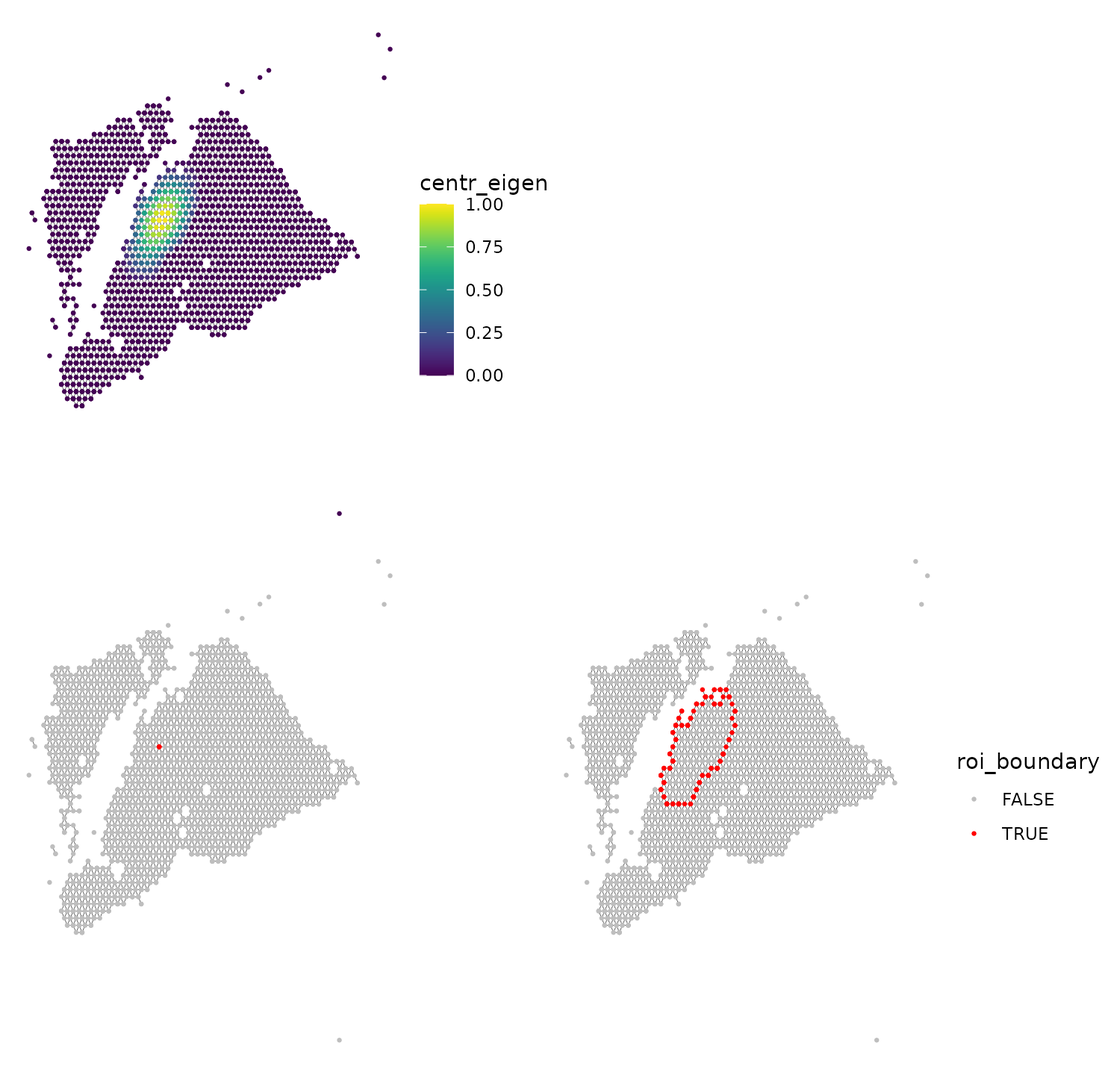
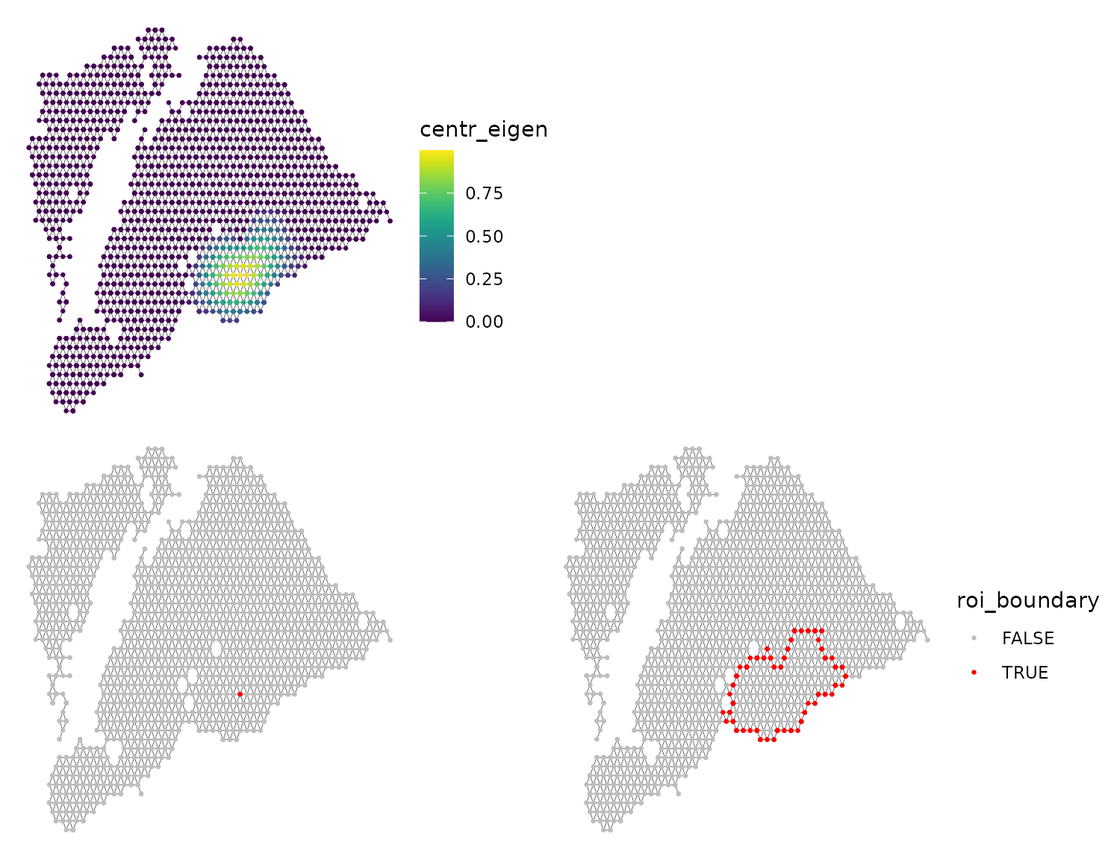
Deploying to gh-pages from @ Sanin-Lab/SpotGraphs@2003e0c19b475e61842f637ec03122c2bc30e984 🚀

diff --git a/articles/NeighborhoodCenters.html b/articles/NeighborhoodCenters.html
@@ -102,15 +102,19 @@ to demonstrate <code><a href="../reference/NeighborhoodCenters.html">Neighborhoo
 <span><span class="co">#&gt; [1] 36601  1185</span></span>
 <span></span>
 <span><span class="va">coord</span> <span class="op">=</span> <span class="fu">Seurat</span><span class="fu">::</span><span class="fu"><a href="https://satijalab.github.io/seurat-object/reference/GetTissueCoordinates.html" class="external-link">GetTissueCoordinates</a></span><span class="op">(</span><span class="va">scc_s1</span><span class="op">)</span></span>
+<span><span class="va">coord</span> <span class="op">=</span> <span class="fu"><a href="https://rdrr.io/r/base/data.frame.html" class="external-link">data.frame</a></span><span class="op">(</span>x <span class="op">=</span> <span class="va">coord</span><span class="op">$</span><span class="va">x</span>, y <span class="op">=</span> <span class="op">-</span><span class="va">coord</span><span class="op">$</span><span class="va">y</span><span class="op">)</span></span></code></pre></div>
+<p>Perform some spot-level filtering (in the same fashion as in the
+Getting Starting vignette)</p>
+<div class="sourceCode" id="cb3"><pre class="downlit sourceCode r">
+<code class="sourceCode R"><span><span class="va">ig</span> <span class="op">=</span> <span class="fu"><a href="../reference/SpotGraph.html">SpotGraph</a></span><span class="op">(</span><span class="va">coord</span><span class="op">)</span></span>
+<span><span class="va">cl</span> <span class="op">=</span> <span class="fu">igraph</span><span class="fu">::</span><span class="fu"><a href="https://r.igraph.org/reference/cluster_louvain.html" class="external-link">cluster_louvain</a></span><span class="op">(</span><span class="va">ig</span>, resolution <span class="op">=</span> <span class="fl">0</span><span class="op">)</span></span>
+<span><span class="va">scc_s1</span> <span class="op">=</span> <span class="fu"><a href="https://satijalab.github.io/seurat-object/reference/AddMetaData.html" class="external-link">AddMetaData</a></span><span class="op">(</span><span class="va">scc_s1</span>, <span class="va">cl</span><span class="op">$</span><span class="va">membership</span> <span class="op"><a href="https://rdrr.io/r/base/match.html" class="external-link">%in%</a></span> <span class="fu"><a href="https://rdrr.io/r/base/c.html" class="external-link">c</a></span><span class="op">(</span><span class="st">'1'</span>,<span class="st">'2'</span><span class="op">)</span>, <span class="st">'cl_threshold'</span><span class="op">)</span></span>
+<span><span class="va">scc_s1</span> <span class="op">=</span> <span class="fu"><a href="https://rdrr.io/r/base/subset.html" class="external-link">subset</a></span><span class="op">(</span><span class="va">scc_s1</span>, subset <span class="op">=</span> <span class="va">cl_threshold</span><span class="op">)</span></span></code></pre></div>
+<p>Update the igraph object after filtering the Seurat object</p>
+<div class="sourceCode" id="cb4"><pre class="downlit sourceCode r">
+<code class="sourceCode R"><span><span class="va">coord</span> <span class="op">=</span> <span class="fu"><a href="https://satijalab.github.io/seurat-object/reference/GetTissueCoordinates.html" class="external-link">GetTissueCoordinates</a></span><span class="op">(</span><span class="va">scc_s1</span><span class="op">)</span></span>
 <span><span class="va">coord</span> <span class="op">=</span> <span class="fu"><a href="https://rdrr.io/r/base/data.frame.html" class="external-link">data.frame</a></span><span class="op">(</span>x <span class="op">=</span> <span class="va">coord</span><span class="op">$</span><span class="va">x</span>, y <span class="op">=</span> <span class="op">-</span><span class="va">coord</span><span class="op">$</span><span class="va">y</span><span class="op">)</span></span>
-<span><span class="fu"><a href="https://rdrr.io/r/utils/head.html" class="external-link">head</a></span><span class="op">(</span><span class="va">coord</span><span class="op">)</span></span>
-<span><span class="co">#&gt;       x      y</span></span>
-<span><span class="co">#&gt; 1  4809 -16571</span></span>
-<span><span class="co">#&gt; 2  3944 -13546</span></span>
-<span><span class="co">#&gt; 3  8142 -14812</span></span>
-<span><span class="co">#&gt; 4 13505 -10536</span></span>
-<span><span class="co">#&gt; 5 11764 -13053</span></span>
-<span><span class="co">#&gt; 6  4240  -9011</span></span></code></pre></div>
+<span><span class="va">ig</span> <span class="op">=</span> <span class="fu"><a href="../reference/SpotGraph.html">SpotGraph</a></span><span class="op">(</span><span class="va">coord</span><span class="op">)</span></span></code></pre></div>
 </div>
 <div class="section level2">
 <h2 id="select-a-region-of-interest">2. Select a region of interest<a class="anchor" aria-label="anchor" href="#select-a-region-of-interest"></a>
@@ -119,38 +123,44 @@ to demonstrate <code><a href="../reference/NeighborhoodCenters.html">Neighborhoo
 interest in this tissue sample, but in practice, this should instead be
 a region of some biological interest. The region of interest, i.e.,
 neighborhood, is provided to <code><a href="../reference/NeighborhoodCenters.html">NeighborhoodCenters()</a></code> as a
-named vector of <code>TRUE</code>/<code>FALSE</code> values, where the
-names correspond to spot barcodes in the given dataset.</p>
-<div class="sourceCode" id="cb3"><pre class="downlit sourceCode r">
-<code class="sourceCode R"><span><span class="co"># create an igraph object with SpotGraph() and perform clustering</span></span>
-<span><span class="va">ig</span> <span class="op">=</span> <span class="fu"><a href="../reference/SpotGraph.html">SpotGraph</a></span><span class="op">(</span><span class="va">coord</span><span class="op">)</span></span>
-<span><span class="va">cl</span> <span class="op">=</span> <span class="fu">igraph</span><span class="fu">::</span><span class="fu"><a href="https://r.igraph.org/reference/cluster_fast_greedy.html" class="external-link">cluster_fast_greedy</a></span><span class="op">(</span><span class="va">ig</span><span class="op">)</span></span>
-<span><span class="va">cl</span> <span class="op">=</span> <span class="fu"><a href="https://rdrr.io/r/base/factor.html" class="external-link">factor</a></span><span class="op">(</span><span class="va">cl</span><span class="op">$</span><span class="va">membership</span><span class="op">)</span></span>
+named vector of <code>TRUE</code>/<code>FALSE</code> values.</p>
+<div class="sourceCode" id="cb5"><pre class="downlit sourceCode r">
+<code class="sourceCode R"><span><span class="co"># perform clustering on the igraph object</span></span>
+<span><span class="va">cl</span> <span class="op">=</span> <span class="fu">igraph</span><span class="fu">::</span><span class="fu"><a href="https://r.igraph.org/reference/cluster_louvain.html" class="external-link">cluster_louvain</a></span><span class="op">(</span><span class="va">ig</span>, resolution <span class="op">=</span> <span class="fl">0.4</span><span class="op">)</span></span>
 <span></span>
-<span><span class="co"># select cluster 1 and name the boolean vector with vertex names</span></span>
-<span><span class="va">roi</span> <span class="op">=</span> <span class="va">cl</span><span class="op">==</span><span class="fl">5</span></span>
-<span><span class="fu"><a href="https://rdrr.io/r/base/names.html" class="external-link">names</a></span><span class="op">(</span><span class="va">roi</span><span class="op">)</span> <span class="op">=</span> <span class="fu"><a href="https://rdrr.io/r/base/names.html" class="external-link">names</a></span><span class="op">(</span><span class="fu">igraph</span><span class="fu">::</span><span class="fu"><a href="https://r.igraph.org/reference/V.html" class="external-link">V</a></span><span class="op">(</span><span class="va">ig</span><span class="op">)</span><span class="op">)</span></span></code></pre></div>
+<span><span class="co"># store clustering results back into igraph object</span></span>
+<span><span class="co"># - note: V() will access all vertices of an igraph object. </span></span>
+<span><span class="co">#        `V() &lt;-` also allows us to store vertex-level attributes </span></span>
+<span><span class="fu">igraph</span><span class="fu">::</span><span class="fu"><a href="https://r.igraph.org/reference/V.html" class="external-link">V</a></span><span class="op">(</span><span class="va">ig</span><span class="op">)</span><span class="op">$</span><span class="va">cluster</span> <span class="op">=</span> <span class="fu"><a href="https://rdrr.io/r/base/factor.html" class="external-link">factor</a></span><span class="op">(</span><span class="va">cl</span><span class="op">$</span><span class="va">membership</span><span class="op">)</span></span>
+<span></span>
+<span><span class="co"># select cluster 5 and name the boolean vector with vertex names</span></span>
+<span><span class="va">roi</span> <span class="op">=</span> <span class="va">cl</span><span class="op">$</span><span class="va">membership</span><span class="op">==</span><span class="fl">5</span></span>
+<span><span class="fu">igraph</span><span class="fu">::</span><span class="fu"><a href="https://r.igraph.org/reference/V.html" class="external-link">V</a></span><span class="op">(</span><span class="va">ig</span><span class="op">)</span><span class="op">$</span><span class="va">is_roi</span> <span class="op">=</span> <span class="va">roi</span></span>
+<span></span>
+<span><span class="co"># visualize clusters and region selection</span></span>
+<span><span class="va">plt1</span> <span class="op">=</span> <span class="fu"><a href="../reference/SpatialPlotGraph.html">SpatialPlotGraph</a></span><span class="op">(</span><span class="va">ig</span>, group.by <span class="op">=</span> <span class="st">'cluster'</span>, label <span class="op">=</span> <span class="cn">T</span>,</span>
+<span>                        pt.size <span class="op">=</span> <span class="fl">0.5</span>, linewidth <span class="op">=</span> <span class="fl">0.1</span><span class="op">)</span> <span class="op">+</span></span>
+<span>  <span class="fu"><a href="https://ggplot2.tidyverse.org/reference/ggtheme.html" class="external-link">theme_void</a></span><span class="op">(</span><span class="op">)</span> <span class="op">+</span></span>
+<span>  <span class="fu"><a href="https://ggplot2.tidyverse.org/reference/theme.html" class="external-link">theme</a></span><span class="op">(</span>legend.position <span class="op">=</span> <span class="st">'none'</span><span class="op">)</span></span>
+<span><span class="va">plt2</span> <span class="op">=</span> <span class="fu"><a href="../reference/SpatialPlotGraph.html">SpatialPlotGraph</a></span><span class="op">(</span><span class="va">ig</span>, group.by <span class="op">=</span> <span class="st">'is_roi'</span>, label <span class="op">=</span> <span class="cn">F</span>,</span>
+<span>                        pt.size <span class="op">=</span> <span class="fl">0.5</span>, linewidth <span class="op">=</span> <span class="fl">0.1</span><span class="op">)</span> <span class="op">+</span></span>
+<span>  <span class="fu"><a href="https://ggplot2.tidyverse.org/reference/scale_manual.html" class="external-link">scale_color_manual</a></span><span class="op">(</span>values <span class="op">=</span> <span class="fu"><a href="https://rdrr.io/r/base/c.html" class="external-link">c</a></span><span class="op">(</span><span class="st">'grey'</span>,<span class="st">'red'</span><span class="op">)</span><span class="op">)</span> <span class="op">+</span></span>
+<span>  <span class="fu"><a href="https://ggplot2.tidyverse.org/reference/ggtheme.html" class="external-link">theme_void</a></span><span class="op">(</span><span class="op">)</span></span>
+<span></span>
+<span><span class="fu"><a href="https://patchwork.data-imaginist.com/reference/wrap_plots.html" class="external-link">wrap_plots</a></span><span class="op">(</span><span class="va">plt1</span>, <span class="va">plt2</span><span class="op">)</span></span></code></pre></div>
+<p><img src="NeighborhoodCenters_files/figure-html/Choose%20a%20region-1.png" class="r-plt" alt="" width="768"></p>
 </div>
 <div class="section level2">
 <h2 id="run-neighborhoodcenters">3. Run <code>NeighborhoodCenters()</code><a class="anchor" aria-label="anchor" href="#run-neighborhoodcenters"></a>
 </h2>
-<div class="sourceCode" id="cb4"><pre class="downlit sourceCode r">
+<div class="sourceCode" id="cb6"><pre class="downlit sourceCode r">
 <code class="sourceCode R"><span><span class="va">res</span> <span class="op">=</span> <span class="fu"><a href="../reference/NeighborhoodCenters.html">NeighborhoodCenters</a></span><span class="op">(</span>coord <span class="op">=</span> <span class="va">coord</span>, is_neighborhood <span class="op">=</span> <span class="va">roi</span><span class="op">)</span></span></code></pre></div>
 <p>The output from this function returns a list, where the first element
 is a data.frame with the scores from <code><a href="https://r.igraph.org/reference/centr_eigen.html" class="external-link">igraph::centr_eigen()</a></code>
 where <code>is_neighborhood == T</code>, and 0 where
 <code>is_neighborhood == F</code>.</p>
-<div class="sourceCode" id="cb5"><pre class="downlit sourceCode r">
-<code class="sourceCode R"><span><span class="fu"><a href="https://rdrr.io/r/base/print.html" class="external-link">print</a></span><span class="op">(</span><span class="fu"><a href="https://rdrr.io/r/utils/head.html" class="external-link">head</a></span><span class="op">(</span><span class="va">res</span><span class="op">$</span><span class="va">eigen.scores</span><span class="op">)</span><span class="op">)</span></span>
-<span><span class="co">#&gt;   barcode center_eigen</span></span>
-<span><span class="co">#&gt; 1       1            0</span></span>
-<span><span class="co">#&gt; 2       2            0</span></span>
-<span><span class="co">#&gt; 3       3            0</span></span>
-<span><span class="co">#&gt; 4       4            0</span></span>
-<span><span class="co">#&gt; 5       5            0</span></span>
-<span><span class="co">#&gt; 6       6            0</span></span>
-<span></span>
-<span><span class="co"># Set centrality scores as a vertex attribute in our igraph object</span></span>
+<div class="sourceCode" id="cb7"><pre class="downlit sourceCode r">
+<code class="sourceCode R"><span><span class="co"># Set centrality scores as a vertex attribute in our igraph object</span></span>
 <span><span class="fu">igraph</span><span class="fu">::</span><span class="fu"><a href="https://r.igraph.org/reference/V.html" class="external-link">V</a></span><span class="op">(</span><span class="va">ig</span><span class="op">)</span><span class="op">$</span><span class="va">centr_eigen</span> <span class="op">=</span> <span class="va">res</span><span class="op">$</span><span class="va">eigen.scores</span><span class="op">$</span><span class="va">center_eigen</span></span>
 <span><span class="fu">igraph</span><span class="fu">::</span><span class="fu"><a href="https://r.igraph.org/reference/V.html" class="external-link">V</a></span><span class="op">(</span><span class="va">ig</span><span class="op">)</span><span class="op">$</span><span class="va">roi_center</span> <span class="op">=</span> <span class="fu"><a href="https://rdrr.io/r/base/names.html" class="external-link">names</a></span><span class="op">(</span><span class="fu">igraph</span><span class="fu">::</span><span class="fu"><a href="https://r.igraph.org/reference/V.html" class="external-link">V</a></span><span class="op">(</span><span class="va">ig</span><span class="op">)</span><span class="op">)</span> <span class="op"><a href="https://rdrr.io/r/base/match.html" class="external-link">%in%</a></span> <span class="va">res</span><span class="op">$</span><span class="va">centers</span></span>
 <span><span class="fu">igraph</span><span class="fu">::</span><span class="fu"><a href="https://r.igraph.org/reference/V.html" class="external-link">V</a></span><span class="op">(</span><span class="va">ig</span><span class="op">)</span><span class="op">$</span><span class="va">roi_boundary</span> <span class="op">=</span> <span class="fu"><a href="https://rdrr.io/r/base/names.html" class="external-link">names</a></span><span class="op">(</span><span class="fu">igraph</span><span class="fu">::</span><span class="fu"><a href="https://r.igraph.org/reference/V.html" class="external-link">V</a></span><span class="op">(</span><span class="va">ig</span><span class="op">)</span><span class="op">)</span> <span class="op"><a href="https://rdrr.io/r/base/match.html" class="external-link">%in%</a></span> <span class="va">res</span><span class="op">$</span><span class="va">boundary</span></span>
@@ -181,11 +191,11 @@ indicating whether a spot is within any of these regions. This can be
 useful when there are several tumor regions within the same tissue
 section. Here, we select three different clusters as regions of
 interest, instead of just one.</p>
-<div class="sourceCode" id="cb6"><pre class="downlit sourceCode r">
-<code class="sourceCode R"><span><span class="va">roi</span> <span class="op">=</span> <span class="va">cl</span> <span class="op"><a href="https://rdrr.io/r/base/match.html" class="external-link">%in%</a></span> <span class="fu"><a href="https://rdrr.io/r/base/c.html" class="external-link">c</a></span><span class="op">(</span><span class="st">'1'</span>, <span class="st">'2'</span>, <span class="st">'5'</span><span class="op">)</span></span>
+<div class="sourceCode" id="cb8"><pre class="downlit sourceCode r">
+<code class="sourceCode R"><span><span class="va">roi</span> <span class="op">=</span> <span class="va">cl</span><span class="op">$</span><span class="va">membership</span> <span class="op"><a href="https://rdrr.io/r/base/match.html" class="external-link">%in%</a></span> <span class="fu"><a href="https://rdrr.io/r/base/c.html" class="external-link">c</a></span><span class="op">(</span><span class="st">'2'</span>, <span class="st">'4'</span>, <span class="st">'5'</span><span class="op">)</span></span>
 <span><span class="fu"><a href="https://rdrr.io/r/base/names.html" class="external-link">names</a></span><span class="op">(</span><span class="va">roi</span><span class="op">)</span> <span class="op">=</span> <span class="fu"><a href="https://rdrr.io/r/base/names.html" class="external-link">names</a></span><span class="op">(</span><span class="fu">igraph</span><span class="fu">::</span><span class="fu"><a href="https://r.igraph.org/reference/V.html" class="external-link">V</a></span><span class="op">(</span><span class="va">ig</span><span class="op">)</span><span class="op">)</span></span>
 <span><span class="va">res</span> <span class="op">=</span> <span class="fu"><a href="../reference/NeighborhoodCenters.html">NeighborhoodCenters</a></span><span class="op">(</span>coord <span class="op">=</span> <span class="va">coord</span>, is_neighborhood <span class="op">=</span> <span class="va">roi</span><span class="op">)</span></span></code></pre></div>
-<div class="sourceCode" id="cb7"><pre class="downlit sourceCode r">
+<div class="sourceCode" id="cb9"><pre class="downlit sourceCode r">
 <code class="sourceCode R"><span><span class="co"># Set centrality scores as a vertex attribute in our igraph object</span></span>
 <span><span class="fu">igraph</span><span class="fu">::</span><span class="fu"><a href="https://r.igraph.org/reference/V.html" class="external-link">V</a></span><span class="op">(</span><span class="va">ig</span><span class="op">)</span><span class="op">$</span><span class="va">centr_eigen</span> <span class="op">=</span> <span class="va">res</span><span class="op">$</span><span class="va">eigen.scores</span><span class="op">$</span><span class="va">center_eigen</span></span>
 <span><span class="fu">igraph</span><span class="fu">::</span><span class="fu"><a href="https://r.igraph.org/reference/V.html" class="external-link">V</a></span><span class="op">(</span><span class="va">ig</span><span class="op">)</span><span class="op">$</span><span class="va">roi_center</span> <span class="op">=</span> <span class="fu"><a href="https://rdrr.io/r/base/names.html" class="external-link">names</a></span><span class="op">(</span><span class="fu">igraph</span><span class="fu">::</span><span class="fu"><a href="https://r.igraph.org/reference/V.html" class="external-link">V</a></span><span class="op">(</span><span class="va">ig</span><span class="op">)</span><span class="op">)</span> <span class="op"><a href="https://rdrr.io/r/base/match.html" class="external-link">%in%</a></span> <span class="va">res</span><span class="op">$</span><span class="va">centers</span></span>
@@ -211,26 +221,25 @@ interest, instead of just one.</p>
 <div class="section level2">
 <h2 id="calculate-distance-between-each-spot-and-roi-center">5. Calculate distance between each spot and ROI center<a class="anchor" aria-label="anchor" href="#calculate-distance-between-each-spot-and-roi-center"></a>
 </h2>
-<div class="sourceCode" id="cb8"><pre class="downlit sourceCode r">
-<code class="sourceCode R"><span><span class="va">roi_dist</span> <span class="op">=</span> <span class="fu">igraph</span><span class="fu">::</span><span class="fu"><a href="https://r.igraph.org/reference/distances.html" class="external-link">distances</a></span><span class="op">(</span><span class="va">ig</span>, weights <span class="op">=</span> <span class="cn">NA</span><span class="op">)</span><span class="op">[</span>,<span class="va">res</span><span class="op">$</span><span class="va">centers</span><span class="op">]</span> <span class="op"><a href="../reference/pipe.html">%&gt;%</a></span> </span>
-<span>  <span class="fu"><a href="https://rdrr.io/r/base/apply.html" class="external-link">apply</a></span><span class="op">(</span><span class="fl">1</span>, <span class="va">min</span><span class="op">)</span></span>
-<span><span class="va">boundary_dist</span> <span class="op">=</span> <span class="fu">igraph</span><span class="fu">::</span><span class="fu"><a href="https://r.igraph.org/reference/distances.html" class="external-link">distances</a></span><span class="op">(</span><span class="va">ig</span>, weights <span class="op">=</span> <span class="cn">NA</span><span class="op">)</span><span class="op">[</span>,<span class="va">res</span><span class="op">$</span><span class="va">boundary</span><span class="op">]</span> <span class="op"><a href="../reference/pipe.html">%&gt;%</a></span> </span>
-<span>  <span class="fu"><a href="https://rdrr.io/r/base/apply.html" class="external-link">apply</a></span><span class="op">(</span><span class="fl">1</span>, <span class="va">min</span><span class="op">)</span></span>
-<span><span class="co"># boundary_dist = ifelse(!roi, boundary_dist, 0)</span></span>
+<div class="sourceCode" id="cb10"><pre class="downlit sourceCode r">
+<code class="sourceCode R"><span><span class="va">roi_dist</span> <span class="op">=</span> <span class="fu">igraph</span><span class="fu">::</span><span class="fu"><a href="https://r.igraph.org/reference/distances.html" class="external-link">distances</a></span><span class="op">(</span><span class="va">ig</span><span class="op">)</span><span class="op">[</span>,<span class="va">res</span><span class="op">$</span><span class="va">centers</span><span class="op">]</span> <span class="op"><a href="../reference/pipe.html">%&gt;%</a></span> <span class="fu"><a href="https://rdrr.io/r/base/apply.html" class="external-link">apply</a></span><span class="op">(</span><span class="fl">1</span>, <span class="va">min</span><span class="op">)</span></span>
+<span><span class="va">boundary_dist</span> <span class="op">=</span> <span class="fu">igraph</span><span class="fu">::</span><span class="fu"><a href="https://r.igraph.org/reference/distances.html" class="external-link">distances</a></span><span class="op">(</span><span class="va">ig</span><span class="op">)</span><span class="op">[</span>,<span class="va">res</span><span class="op">$</span><span class="va">boundary</span><span class="op">]</span> <span class="op"><a href="../reference/pipe.html">%&gt;%</a></span> <span class="fu"><a href="https://rdrr.io/r/base/apply.html" class="external-link">apply</a></span><span class="op">(</span><span class="fl">1</span>, <span class="va">min</span><span class="op">)</span></span>
 <span></span>
+<span><span class="co"># store calculated distances back into igraph objects</span></span>
 <span><span class="fu">igraph</span><span class="fu">::</span><span class="fu"><a href="https://r.igraph.org/reference/V.html" class="external-link">V</a></span><span class="op">(</span><span class="va">ig</span><span class="op">)</span><span class="op">$</span><span class="va">roi_dist</span> <span class="op">=</span> <span class="va">roi_dist</span></span>
 <span><span class="fu">igraph</span><span class="fu">::</span><span class="fu"><a href="https://r.igraph.org/reference/V.html" class="external-link">V</a></span><span class="op">(</span><span class="va">ig</span><span class="op">)</span><span class="op">$</span><span class="va">boundary_dist</span> <span class="op">=</span> <span class="va">boundary_dist</span></span>
 <span></span>
+<span><span class="co"># visualize distances between centers or boundaries</span></span>
 <span><span class="va">plt.dist</span> <span class="op">=</span> <span class="fu"><a href="../reference/SpatialPlotGraph.html">SpatialPlotGraph</a></span><span class="op">(</span><span class="va">ig</span>, group.by <span class="op">=</span> <span class="st">'roi_dist'</span>,</span>
 <span>                 pt.size <span class="op">=</span> <span class="fl">0.5</span>, linewidth <span class="op">=</span> <span class="fl">0.1</span><span class="op">)</span> <span class="op">+</span></span>
-<span>  <span class="fu"><a href="https://ggplot2.tidyverse.org/reference/scale_brewer.html" class="external-link">scale_color_distiller</a></span><span class="op">(</span>palette <span class="op">=</span> <span class="st">'RdBu'</span>, direction <span class="op">=</span> <span class="fl">1</span><span class="op">)</span> <span class="op">+</span></span>
+<span>  <span class="fu"><a href="https://ggplot2.tidyverse.org/reference/scale_brewer.html" class="external-link">scale_color_distiller</a></span><span class="op">(</span>palette <span class="op">=</span> <span class="st">'RdBu'</span>, direction <span class="op">=</span> <span class="op">-</span><span class="fl">1</span><span class="op">)</span> <span class="op">+</span></span>
 <span>  <span class="fu"><a href="https://ggplot2.tidyverse.org/reference/labs.html" class="external-link">ggtitle</a></span><span class="op">(</span><span class="st">'distance to ROI centers'</span><span class="op">)</span> <span class="op">+</span></span>
 <span>  <span class="fu"><a href="https://ggplot2.tidyverse.org/reference/ggtheme.html" class="external-link">theme_void</a></span><span class="op">(</span><span class="op">)</span> <span class="op">+</span></span>
 <span>  <span class="fu"><a href="https://ggplot2.tidyverse.org/reference/theme.html" class="external-link">theme</a></span><span class="op">(</span>plot.title <span class="op">=</span> <span class="fu"><a href="https://ggplot2.tidyverse.org/reference/element.html" class="external-link">element_text</a></span><span class="op">(</span>hjust <span class="op">=</span> <span class="fl">0.5</span>, face <span class="op">=</span> <span class="st">'bold'</span><span class="op">)</span>,</span>
 <span>        legend.position <span class="op">=</span> <span class="st">'none'</span><span class="op">)</span></span>
 <span><span class="va">plt.boundarydist</span> <span class="op">=</span> <span class="fu"><a href="../reference/SpatialPlotGraph.html">SpatialPlotGraph</a></span><span class="op">(</span><span class="va">ig</span>, group.by <span class="op">=</span> <span class="st">'boundary_dist'</span>,</span>
 <span>                 pt.size <span class="op">=</span> <span class="fl">0.5</span>, linewidth <span class="op">=</span> <span class="fl">0.1</span><span class="op">)</span> <span class="op">+</span></span>
-<span>  <span class="fu"><a href="https://ggplot2.tidyverse.org/reference/scale_brewer.html" class="external-link">scale_color_distiller</a></span><span class="op">(</span>palette <span class="op">=</span> <span class="st">'RdBu'</span>, direction <span class="op">=</span> <span class="fl">1</span><span class="op">)</span> <span class="op">+</span></span>
+<span>  <span class="fu"><a href="https://ggplot2.tidyverse.org/reference/scale_brewer.html" class="external-link">scale_color_distiller</a></span><span class="op">(</span>palette <span class="op">=</span> <span class="st">'RdBu'</span>, direction <span class="op">=</span> <span class="op">-</span><span class="fl">1</span><span class="op">)</span> <span class="op">+</span></span>
 <span>  <span class="fu"><a href="https://ggplot2.tidyverse.org/reference/labs.html" class="external-link">ggtitle</a></span><span class="op">(</span><span class="st">'distance to ROI boundaries'</span><span class="op">)</span> <span class="op">+</span></span>
 <span>  <span class="fu"><a href="https://ggplot2.tidyverse.org/reference/guides.html" class="external-link">guides</a></span><span class="op">(</span>color <span class="op">=</span> <span class="fu"><a href="https://ggplot2.tidyverse.org/reference/guide_colourbar.html" class="external-link">guide_colorbar</a></span><span class="op">(</span>title <span class="op">=</span> <span class="st">'distance'</span><span class="op">)</span>,</span>
 <span>         alpha <span class="op">=</span> <span class="fu"><a href="https://ggplot2.tidyverse.org/reference/guide_none.html" class="external-link">guide_none</a></span><span class="op">(</span><span class="op">)</span><span class="op">)</span> <span class="op">+</span></span>

diff --git a/articles/SpotGraphs.html b/articles/SpotGraphs.html
@@ -126,9 +126,9 @@ the spots on our slide.</p>
 <span></span>
 <span><span class="va">ig</span> <span class="op">=</span> <span class="fu"><a href="../reference/SpotGraph.html">SpotGraph</a></span><span class="op">(</span>coord <span class="op">=</span> <span class="va">coord</span><span class="op">)</span></span>
 <span><span class="va">ig</span></span>
-<span><span class="co">#&gt; IGRAPH 513ce4a UN-- 1185 3189 -- </span></span>
+<span><span class="co">#&gt; IGRAPH d4b129d UN-- 1185 3189 -- </span></span>
 <span><span class="co">#&gt; + attr: name (v/c), coord_x (v/n), coord_y (v/n), is_boundary (v/l)</span></span>
-<span><span class="co">#&gt; + edges from 513ce4a (vertex names):</span></span>
+<span><span class="co">#&gt; + edges from d4b129d (vertex names):</span></span>
 <span><span class="co">#&gt;  [1] 1 --175  1 --522  1 --562  1 --718  1 --983  1 --1073 2 --86   2 --1130</span></span>
 <span><span class="co">#&gt;  [9] 3 --31   3 --326  3 --358  3 --680  3 --696  3 --1168 4 --37   4 --38  </span></span>
 <span><span class="co">#&gt; [17] 4 --128  4 --216  4 --691  4 --1109 5 --473  5 --734  5 --799  5 --807 </span></span>
@@ -164,12 +164,12 @@ in our plots.</p>
 </h2>
 <p>One of the main features of the SpotGraph package is to identify
 spots on a slide that lie on top of tissue debris disconnected from the
-rest of the tissue sample. These are uninformative and are a technical
-artifacts from sample processing, so we’d like to exclude these from our
-downstream analysis. We can identify whether a spot is surrounded by
-other spots using the <code><a href="https://r.igraph.org/reference/degree.html" class="external-link">igraph::degree()</a></code> function, and filter
-out spots that are by themselves or only adjacent to one other spot with
-<code><a href="https://r.igraph.org/reference/subgraph.html" class="external-link">igraph::subgraph()</a></code>:</p>
+rest of the tissue sample. These are uninformative and are likely
+technical artifacts from sample processing, so we’d like to exclude
+these from our downstream analysis. We can count the number of spots
+surrounding each spot using the <code><a href="https://r.igraph.org/reference/degree.html" class="external-link">igraph::degree()</a></code> function,
+and identify spots that have no neighbors or only have one adjacent
+spot:</p>
 <ol style="list-style-type: decimal">
 <li>First, extract the x,y coordinates of each spot in our dataset</li>
 <li>Create and igraph object with <code><a href="../reference/SpotGraph.html">SpotGraph()</a></code>

diff --git a/articles/NeighborhoodCenters.md b/articles/NeighborhoodCenters.md
@@ -37,14 +37,24 @@ dim(scc_s1)
 
 coord = Seurat::GetTissueCoordinates(scc_s1)
 coord = data.frame(x = coord$x, y = -coord$y)
-head(coord)
-#>       x      y
-#> 1  4809 -16571
-#> 2  3944 -13546
-#> 3  8142 -14812
-#> 4 13505 -10536
-#> 5 11764 -13053
-#> 6  4240  -9011
+```
+
+Perform some spot-level filtering (in the same fashion as in the Getting
+Starting vignette)
+
+``` r
+ig = SpotGraph(coord)
+cl = igraph::cluster_louvain(ig, resolution = 0)
+scc_s1 = AddMetaData(scc_s1, cl$membership %in% c('1','2'), 'cl_threshold')
+scc_s1 = subset(scc_s1, subset = cl_threshold)
+```
+
+Update the igraph object after filtering the Seurat object
+
+``` r
+coord = GetTissueCoordinates(scc_s1)
+coord = data.frame(x = coord$x, y = -coord$y)
+ig = SpotGraph(coord)
 ```
 
 ## 2. Select a region of interest
@@ -54,19 +64,35 @@ interest in this tissue sample, but in practice, this should instead be
 a region of some biological interest. The region of interest, i.e.,
 neighborhood, is provided to
 [`NeighborhoodCenters()`](https://potential-adventure-or7z9q9.pages.github.io/reference/NeighborhoodCenters.md)
-as a named vector of `TRUE`/`FALSE` values, where the names correspond
-to spot barcodes in the given dataset.
+as a named vector of `TRUE`/`FALSE` values.
 
 ``` r
-# create an igraph object with SpotGraph() and perform clustering
-ig = SpotGraph(coord)
-cl = igraph::cluster_fast_greedy(ig)
-cl = factor(cl$membership)
+# perform clustering on the igraph object
+cl = igraph::cluster_louvain(ig, resolution = 0.4)
 
-# select cluster 1 and name the boolean vector with vertex names
-roi = cl==5
-names(roi) = names(igraph::V(ig))
+# store clustering results back into igraph object
+# - note: V() will access all vertices of an igraph object. 
+#        `V() <-` also allows us to store vertex-level attributes 
+igraph::V(ig)$cluster = factor(cl$membership)
+
+# select cluster 5 and name the boolean vector with vertex names
+roi = cl$membership==5
+igraph::V(ig)$is_roi = roi
+
+# visualize clusters and region selection
+plt1 = SpatialPlotGraph(ig, group.by = 'cluster', label = T,
+                        pt.size = 0.5, linewidth = 0.1) +
+  theme_void() +
+  theme(legend.position = 'none')
+plt2 = SpatialPlotGraph(ig, group.by = 'is_roi', label = F,
+                        pt.size = 0.5, linewidth = 0.1) +
+  scale_color_manual(values = c('grey','red')) +
+  theme_void()
+
+wrap_plots(plt1, plt2)
 ```
+
+![](NeighborhoodCenters_files/figure-html/Choose%20a%20region-1.png)
 
 ## 3. Run `NeighborhoodCenters()`
 
@@ -80,15 +106,6 @@ a data.frame with the scores from
 where `is_neighborhood == T`, and 0 where `is_neighborhood == F`.
 
 ``` r
-print(head(res$eigen.scores))
-#>   barcode center_eigen
-#> 1       1            0
-#> 2       2            0
-#> 3       3            0
-#> 4       4            0
-#> 5       5            0
-#> 6       6            0
-
 # Set centrality scores as a vertex attribute in our igraph object
 igraph::V(ig)$centr_eigen = res$eigen.scores$center_eigen
 igraph::V(ig)$roi_center = names(igraph::V(ig)) %in% res$centers
@@ -124,7 +141,7 @@ regions within the same tissue section. Here, we select three different
 clusters as regions of interest, instead of just one.
 
 ``` r
-roi = cl %in% c('1', '2', '5')
+roi = cl$membership %in% c('2', '4', '5')
 names(roi) = names(igraph::V(ig))
 res = NeighborhoodCenters(coord = coord, is_neighborhood = roi)
 ```
@@ -157,25 +174,24 @@ wrap_plots(plt1, plt2, plt3, design = 'A#\nBC')
 ## 5. Calculate distance between each spot and ROI center
 
 ``` r
-roi_dist = igraph::distances(ig, weights = NA)[,res$centers] %>% 
-  apply(1, min)
-boundary_dist = igraph::distances(ig, weights = NA)[,res$boundary] %>% 
-  apply(1, min)
-# boundary_dist = ifelse(!roi, boundary_dist, 0)
+roi_dist = igraph::distances(ig)[,res$centers] %>% apply(1, min)
+boundary_dist = igraph::distances(ig)[,res$boundary] %>% apply(1, min)
 
+# store calculated distances back into igraph objects
 igraph::V(ig)$roi_dist = roi_dist
 igraph::V(ig)$boundary_dist = boundary_dist
 
+# visualize distances between centers or boundaries
 plt.dist = SpatialPlotGraph(ig, group.by = 'roi_dist',
                  pt.size = 0.5, linewidth = 0.1) +
-  scale_color_distiller(palette = 'RdBu', direction = 1) +
+  scale_color_distiller(palette = 'RdBu', direction = -1) +
   ggtitle('distance to ROI centers') +
   theme_void() +
   theme(plot.title = element_text(hjust = 0.5, face = 'bold'),
         legend.position = 'none')
 plt.boundarydist = SpatialPlotGraph(ig, group.by = 'boundary_dist',
                  pt.size = 0.5, linewidth = 0.1) +
-  scale_color_distiller(palette = 'RdBu', direction = 1) +
+  scale_color_distiller(palette = 'RdBu', direction = -1) +
   ggtitle('distance to ROI boundaries') +
   guides(color = guide_colorbar(title = 'distance'),
          alpha = guide_none()) +

diff --git a/articles/SpotGraphs.md b/articles/SpotGraphs.md
@@ -59,9 +59,9 @@ head(coord)
 
 ig = SpotGraph(coord = coord)
 ig
-#> IGRAPH 513ce4a UN-- 1185 3189 -- 
+#> IGRAPH d4b129d UN-- 1185 3189 -- 
 #> + attr: name (v/c), coord_x (v/n), coord_y (v/n), is_boundary (v/l)
-#> + edges from 513ce4a (vertex names):
+#> + edges from d4b129d (vertex names):
 #>  [1] 1 --175  1 --522  1 --562  1 --718  1 --983  1 --1073 2 --86   2 --1130
 #>  [9] 3 --31   3 --326  3 --358  3 --680  3 --696  3 --1168 4 --37   4 --38  
 #> [17] 4 --128  4 --216  4 --691  4 --1109 5 --473  5 --734  5 --799  5 --807 
@@ -101,14 +101,13 @@ patchwork::wrap_plots(plt.ggnet, plt.spg)
 
 One of the main features of the SpotGraph package is to identify spots
 on a slide that lie on top of tissue debris disconnected from the rest
-of the tissue sample. These are uninformative and are a technical
+of the tissue sample. These are uninformative and are likely technical
 artifacts from sample processing, so we’d like to exclude these from our
-downstream analysis. We can identify whether a spot is surrounded by
-other spots using the
+downstream analysis. We can count the number of spots surrounding each
+spot using the
 [`igraph::degree()`](https://r.igraph.org/reference/degree.html)
-function, and filter out spots that are by themselves or only adjacent
-to one other spot with
-[`igraph::subgraph()`](https://r.igraph.org/reference/subgraph.html):
+function, and identify spots that have no neighbors or only have one
+adjacent spot:
 
 1.  First, extract the x,y coordinates of each spot in our dataset
 2.  Create and igraph object with
